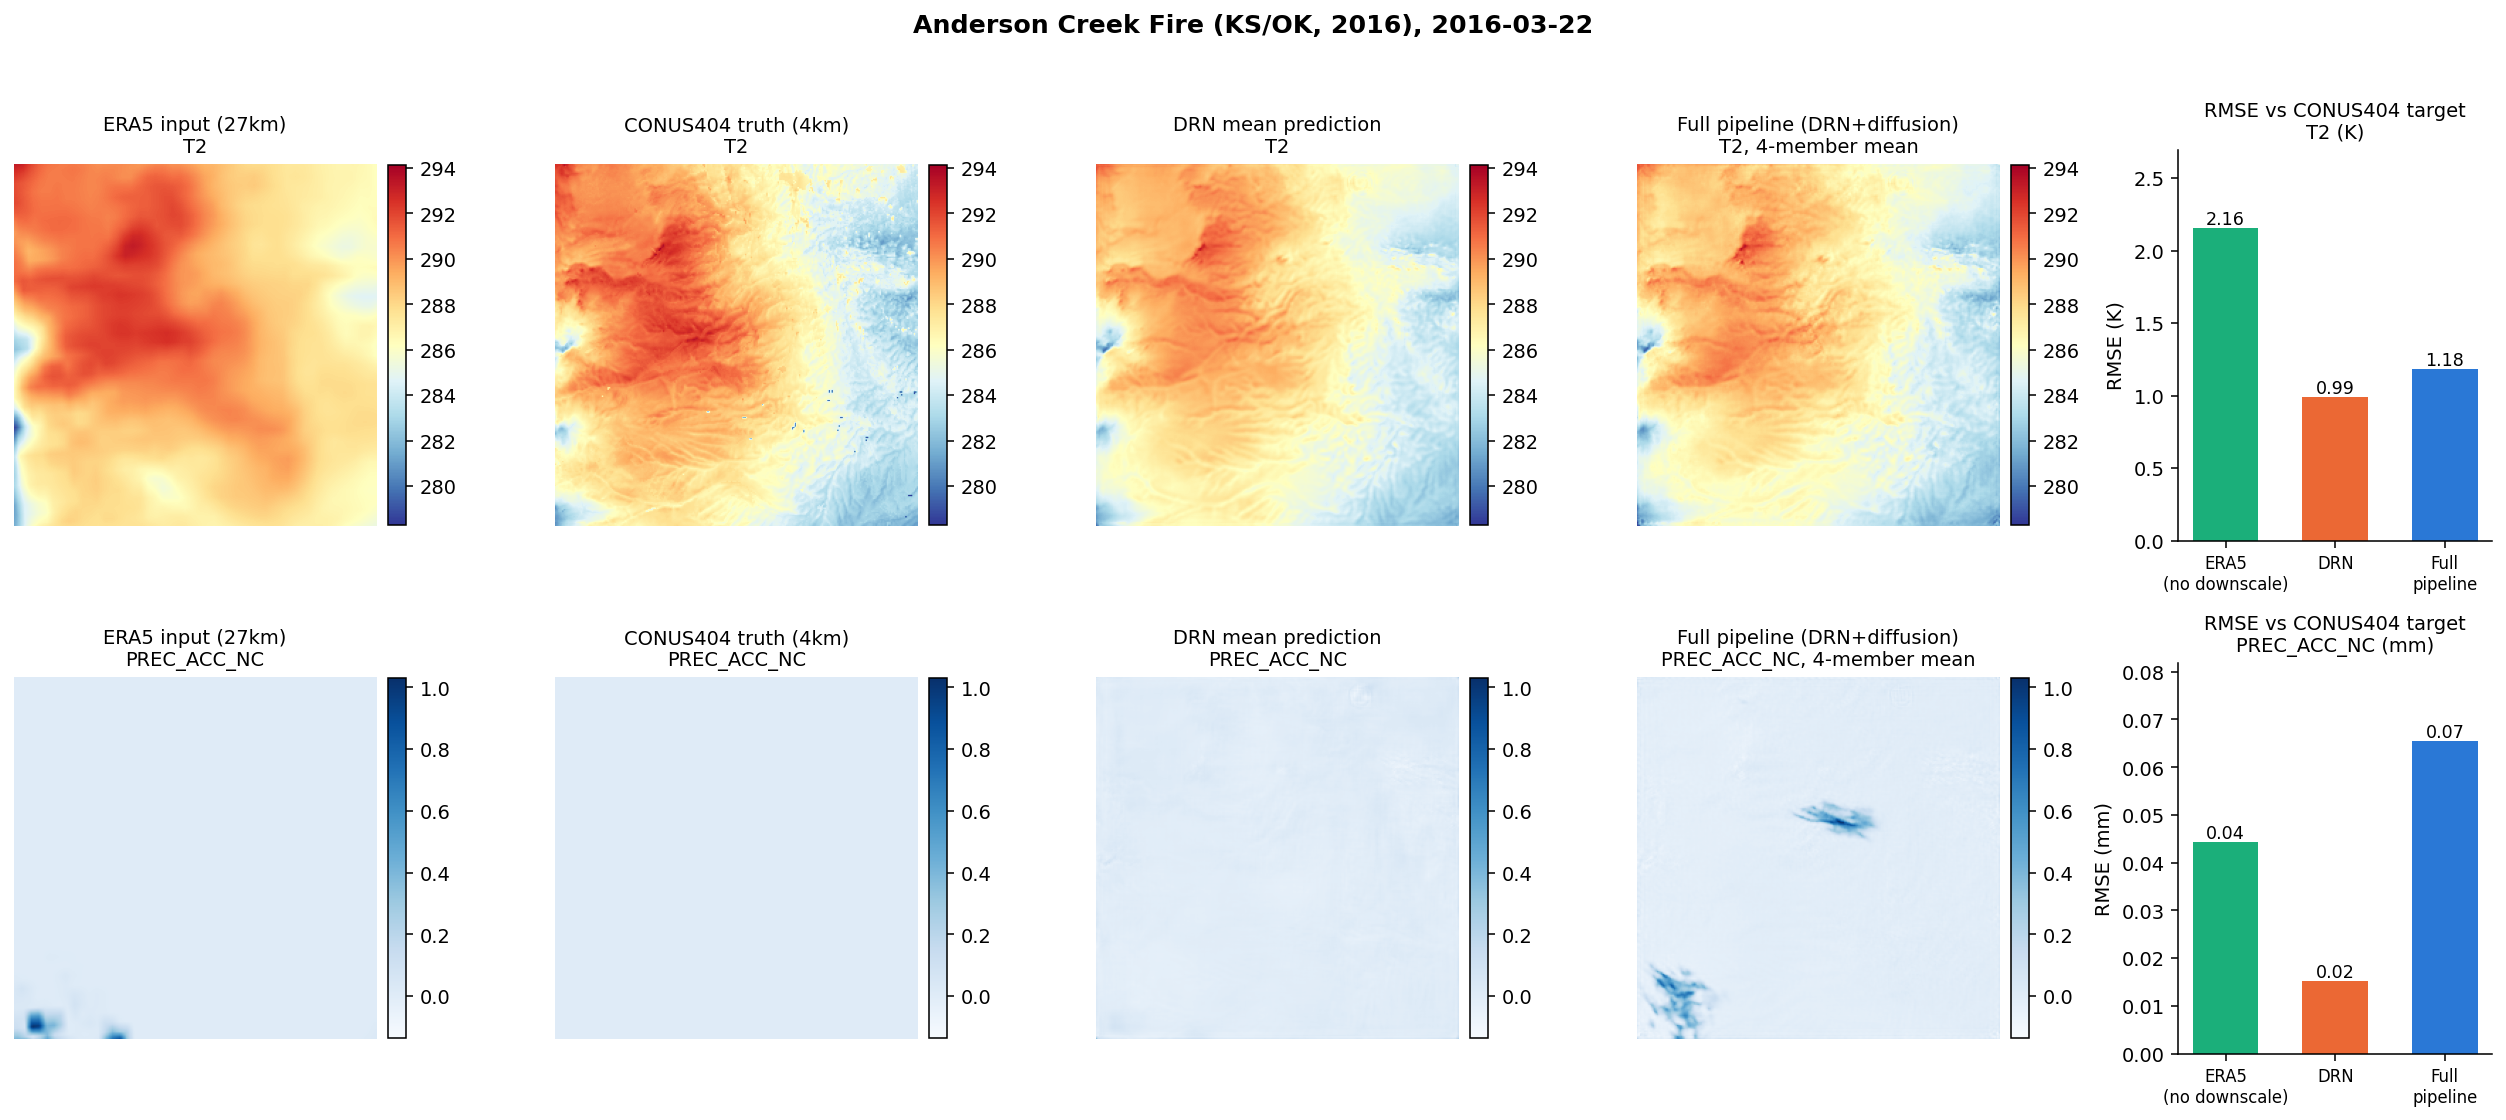
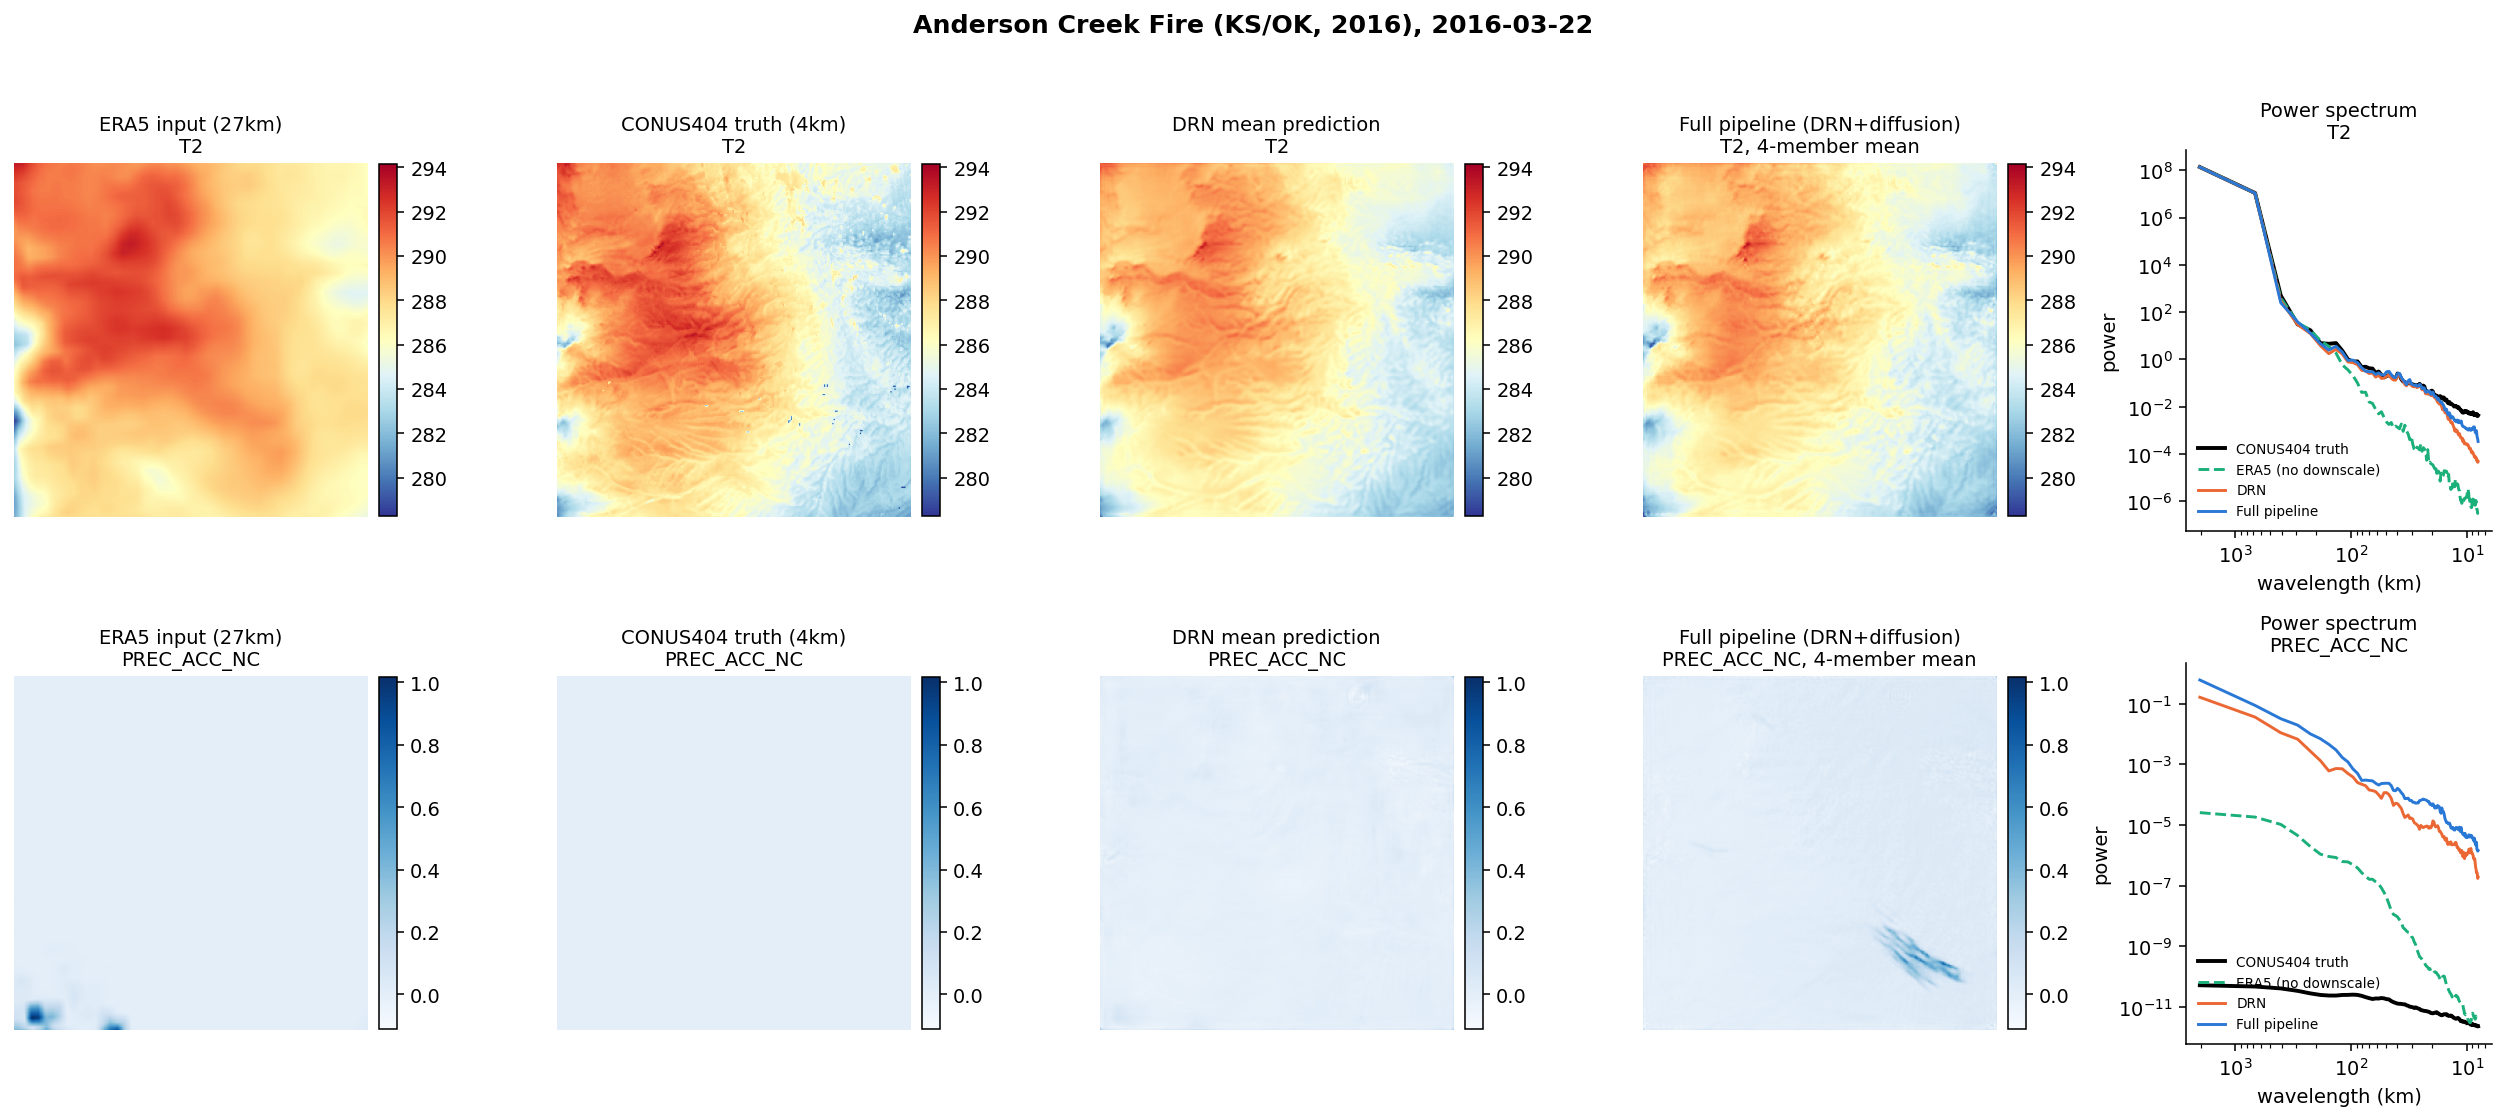
Replace RMSE bar chart with power spectrum panel
RMSE alone is misleading for a diffusion downscaling model -- the DRN
mean prediction is explicitly MSE-optimal, so comparing it to the
diffusion ensemble on RMSE structurally favors DRN regardless of
whether diffusion is adding real value. Swapped the 5th-column bar
chart for a radially-averaged power spectrum (truth/ERA5/DRN/pipeline),
which shows the thing RMSE can't: whether the diffusion stage recovers
small-scale variance that DRN's regression blur smooths away. Visible
directly in e.g. Okanogan_Complex.png's precip spectrum, where the full
pipeline tracks the truth curve much more closely than DRN at short
wavelengths despite DRN's better raw RMSE.

Claude-Session: https://claude.ai/code/session_01Cr9pG4DCqmSgMizF69GNgL

diff --git a/scripts/run_generic_baselines.py b/scripts/run_generic_baselines.py
@@ -23,6 +23,7 @@ import matplotlib.pyplot as plt
 from config import ERA5_VARS, CONUS404_VARS, PATCH_SIZE, TRAIN
 from src.inference.pipeline import run_pipeline
 from src.evaluation._eval_setup import load_models, load_land_mask_from_cache
+from src.evaluation.metrics import power_spectrum_2d
 from src.preprocessing.normalization import NormalizationStats
 from src.preprocessing.land_mask import get_valid_patch_origins
 
@@ -105,18 +106,20 @@ def run_case(idx, year, day_idx, y0, x0, models, stats, static, device):
             plt.colorbar(im, ax=ax, fraction=0.046, pad=0.03)
 
         bax = axes[row, 4]
-        labels = ["ERA5\n(no downscale)", "DRN", "Full\npipeline"]
-        vals = [rmse_era5, rmse_drn, rmse_ens]
-        unit = "K" if var == "T2" else "mm"
-        colors = [AQUA, ORANGE, BLUE]
-        bars = bax.bar(labels, vals, color=colors, width=0.6)
-        for b, v in zip(bars, vals):
-            bax.text(b.get_x() + b.get_width() / 2, v, f"{v:.2f}", ha="center", va="bottom", fontsize=9)
-        bax.set_title(f"RMSE vs CONUS404 target\n{var} ({unit})", fontsize=10)
-        bax.set_ylabel(f"RMSE ({unit})")
+        wl_truth, pw_truth = power_spectrum_2d(truth_field)
+        wl_era5, pw_era5 = power_spectrum_2d(era5_field)
+        wl_drn, pw_drn = power_spectrum_2d(drn_field)
+        wl_ens, pw_ens = power_spectrum_2d(ens_field)
+        bax.loglog(wl_truth, pw_truth, color="black", linewidth=2, label="CONUS404 truth")
+        bax.loglog(wl_era5, pw_era5, color="#1baf7a", linewidth=1.5, linestyle="--", label="ERA5 (no downscale)")
+        bax.loglog(wl_drn, pw_drn, color="#eb6834", linewidth=1.5, label="DRN")
+        bax.loglog(wl_ens, pw_ens, color="#2a78d6", linewidth=1.5, label="Full pipeline")
+        bax.set_title(f"Power spectrum\n{var}", fontsize=10)
+        bax.set_xlabel("wavelength (km)")
+        bax.set_ylabel("power")
+        bax.invert_xaxis()
         bax.spines[["top", "right"]].set_visible(False)
-        bax.tick_params(axis="x", labelsize=8.5)
-        bax.set_ylim(0, max(vals) * 1.25)
+        bax.legend(fontsize=7, loc="lower left", frameon=False)
 
     import datetime as dt
     date_str = (dt.date(year, 1, 1) + dt.timedelta(days=day_idx)).isoformat()
@@ -157,6 +160,7 @@ def main():
             res = run_case(i + 1, year, day_idx, y0, x0, models, stats, static, device)
         except Exception as e:
             print(f"[skip] year={year} day={day_idx} patch=({y0},{x0}): {e}")
+            plt.close("all")
             continue
         for var, (r_era5, r_drn, r_ens) in res.items():
             all_results[var]["era5"].append(r_era5)

diff --git a/scripts/run_wildfire_cases.py b/scripts/run_wildfire_cases.py
@@ -28,6 +28,7 @@ import matplotlib.pyplot as plt
 from config import ERA5_VARS, CONUS404_VARS, PATCH_SIZE
 from src.inference.pipeline import run_pipeline
 from src.evaluation._eval_setup import load_models, load_land_mask_from_cache
+from src.evaluation.metrics import power_spectrum_2d
 from src.preprocessing.normalization import NormalizationStats
 
 CACHE = "/discover/nobackup/sduan/.data"
@@ -150,17 +151,20 @@ def run_case(name, date_str, lat, lon, note, models, stats, static, land, lat_gr
             plt.colorbar(im, ax=ax, fraction=0.046, pad=0.03)
 
         bax = axes[row, 4]
-        labels = ["ERA5\n(no downscale)", "DRN", "Full\npipeline"]
-        vals = [rmse_era5, rmse_drn, rmse_ens]
-        colors = [AQUA, ORANGE, BLUE]
-        bars = bax.bar(labels, vals, color=colors, width=0.6)
-        for b, v in zip(bars, vals):
-            bax.text(b.get_x() + b.get_width() / 2, v, f"{v:.2f}", ha="center", va="bottom", fontsize=9)
-        bax.set_title(f"RMSE vs CONUS404 target\n{var} ({unit})", fontsize=10)
-        bax.set_ylabel(f"RMSE ({unit})")
+        wl_truth, pw_truth = power_spectrum_2d(truth_field)
+        wl_era5, pw_era5 = power_spectrum_2d(era5_field)
+        wl_drn, pw_drn = power_spectrum_2d(drn_field)
+        wl_ens, pw_ens = power_spectrum_2d(ens_field)
+        bax.loglog(wl_truth, pw_truth, color="black", linewidth=2, label="CONUS404 truth")
+        bax.loglog(wl_era5, pw_era5, color=AQUA, linewidth=1.5, linestyle="--", label="ERA5 (no downscale)")
+        bax.loglog(wl_drn, pw_drn, color=ORANGE, linewidth=1.5, label="DRN")
+        bax.loglog(wl_ens, pw_ens, color=BLUE, linewidth=1.5, label="Full pipeline")
+        bax.set_title(f"Power spectrum\n{var}", fontsize=10)
+        bax.set_xlabel("wavelength (km)")
+        bax.set_ylabel("power")
+        bax.invert_xaxis()
         bax.spines[["top", "right"]].set_visible(False)
-        bax.tick_params(axis="x", labelsize=8.5)
-        bax.set_ylim(0, max(vals) * 1.25)
+        bax.legend(fontsize=7, loc="lower left", frameon=False)
 
     fig.suptitle(f"{name}, {date_str}", fontsize=13, fontweight="bold", y=1.02)
     fig.tight_layout()
